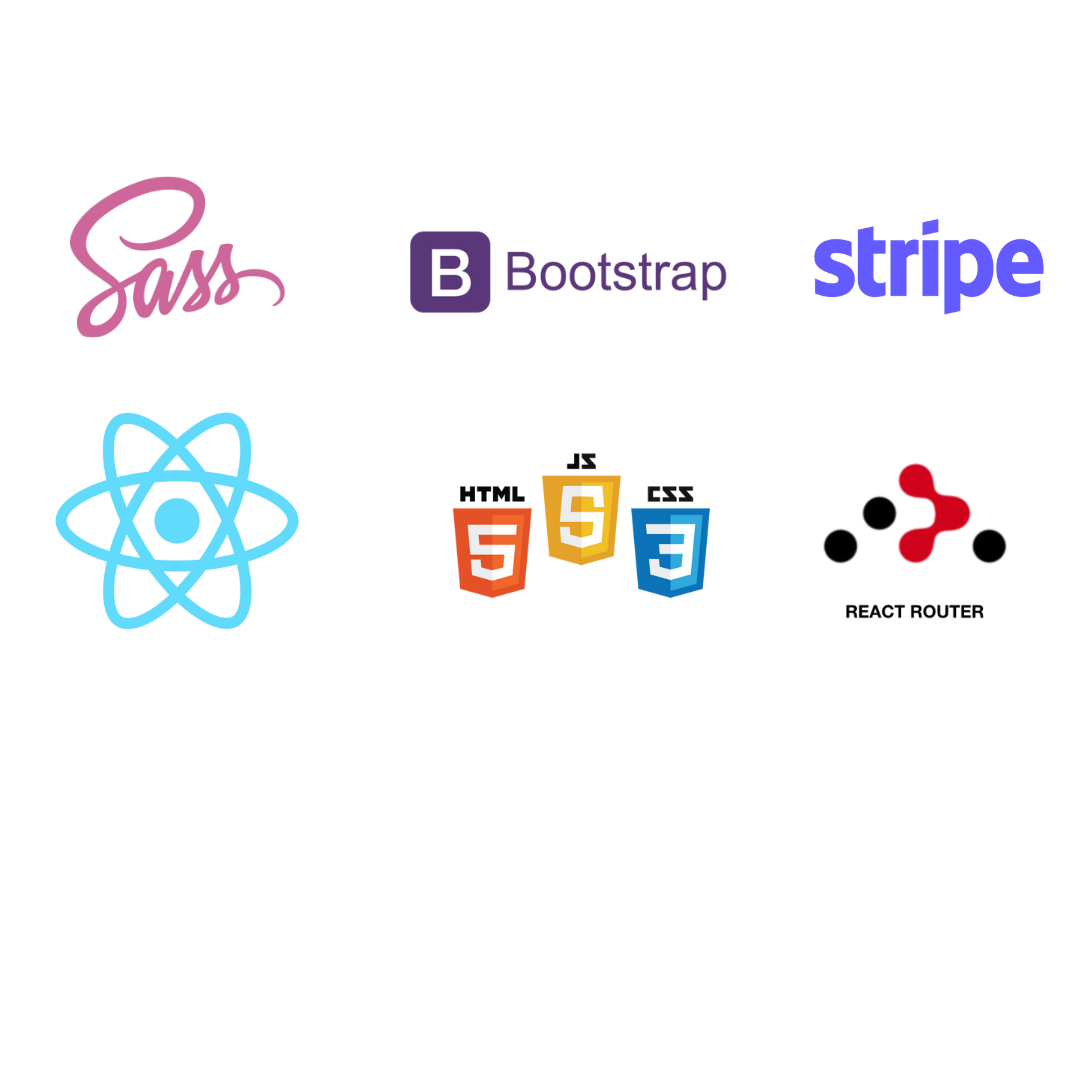
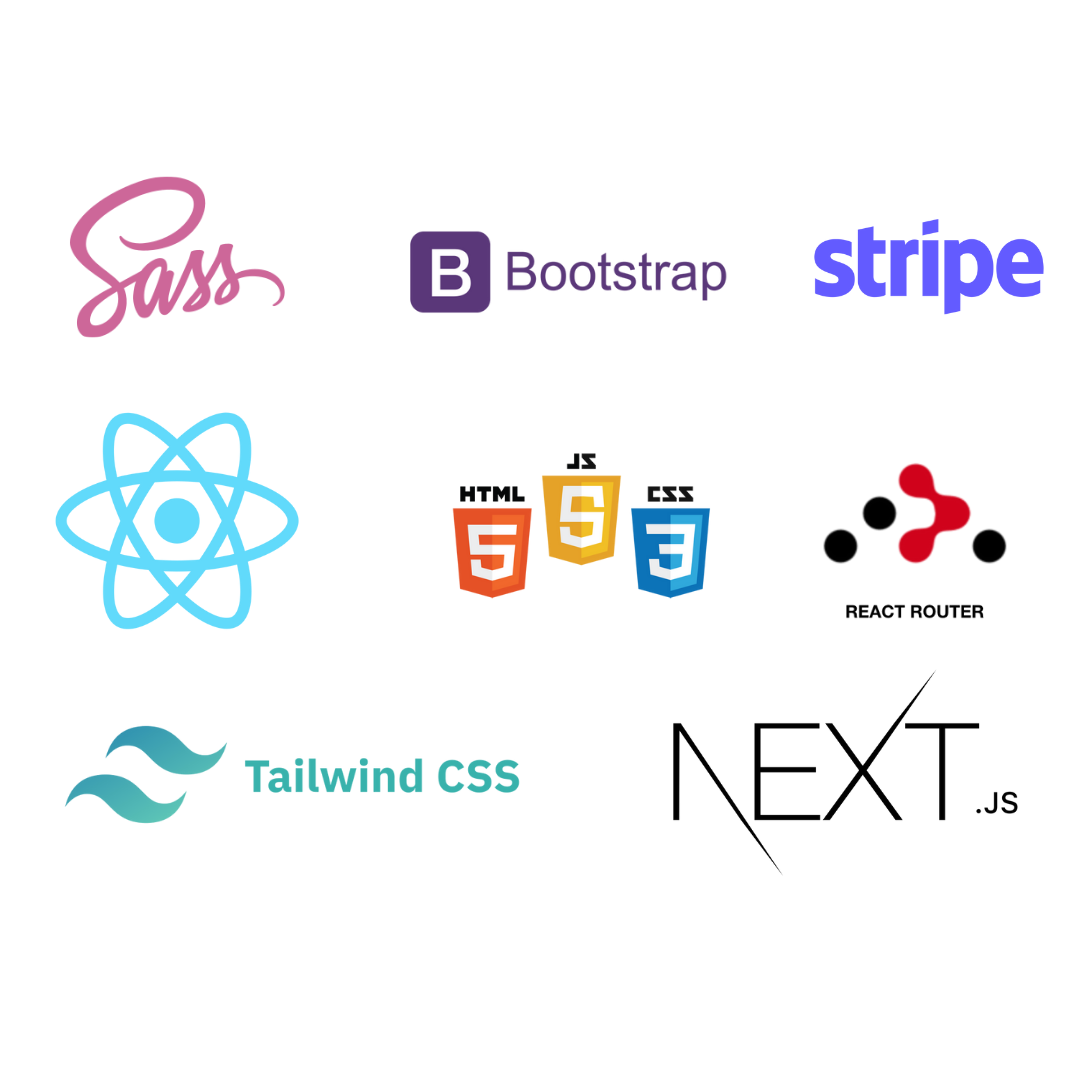
add new image

diff --git a/src/components/about/About.js b/src/components/about/About.js
@@ -17,13 +17,13 @@ const About = () => (
       <h3>Tecnologías </h3>
       <p>
         Me he especializado en el área front-end, utilizando tecnologías que van desde HTML
-        (estructura), pasando por CSS, Boostrap y SASS (diseño), hasta usar JavaScript como lenguaje
-        de programación y ReactJs como librería.
+        (estructura), pasando por CSS, Boostrap, SASS y TailwindCss (diseño), hasta usar JavaScript
+        como lenguaje de programación, ReactJs como librería y NextJs como framework de ReactJs.
       </p>
       <h3>Proyectos </h3>
       <p>
         En mis proyectos con ReactJs, he utilizado las últimas tecnologías como son: React Hooks,
-        Redux, Firebase, Rutas (React Router), Stripe y más..
+        Redux, Firebase, Rutas (React Router), Stripe y más...
       </p>
     </div>
     <div className="about-img ">
